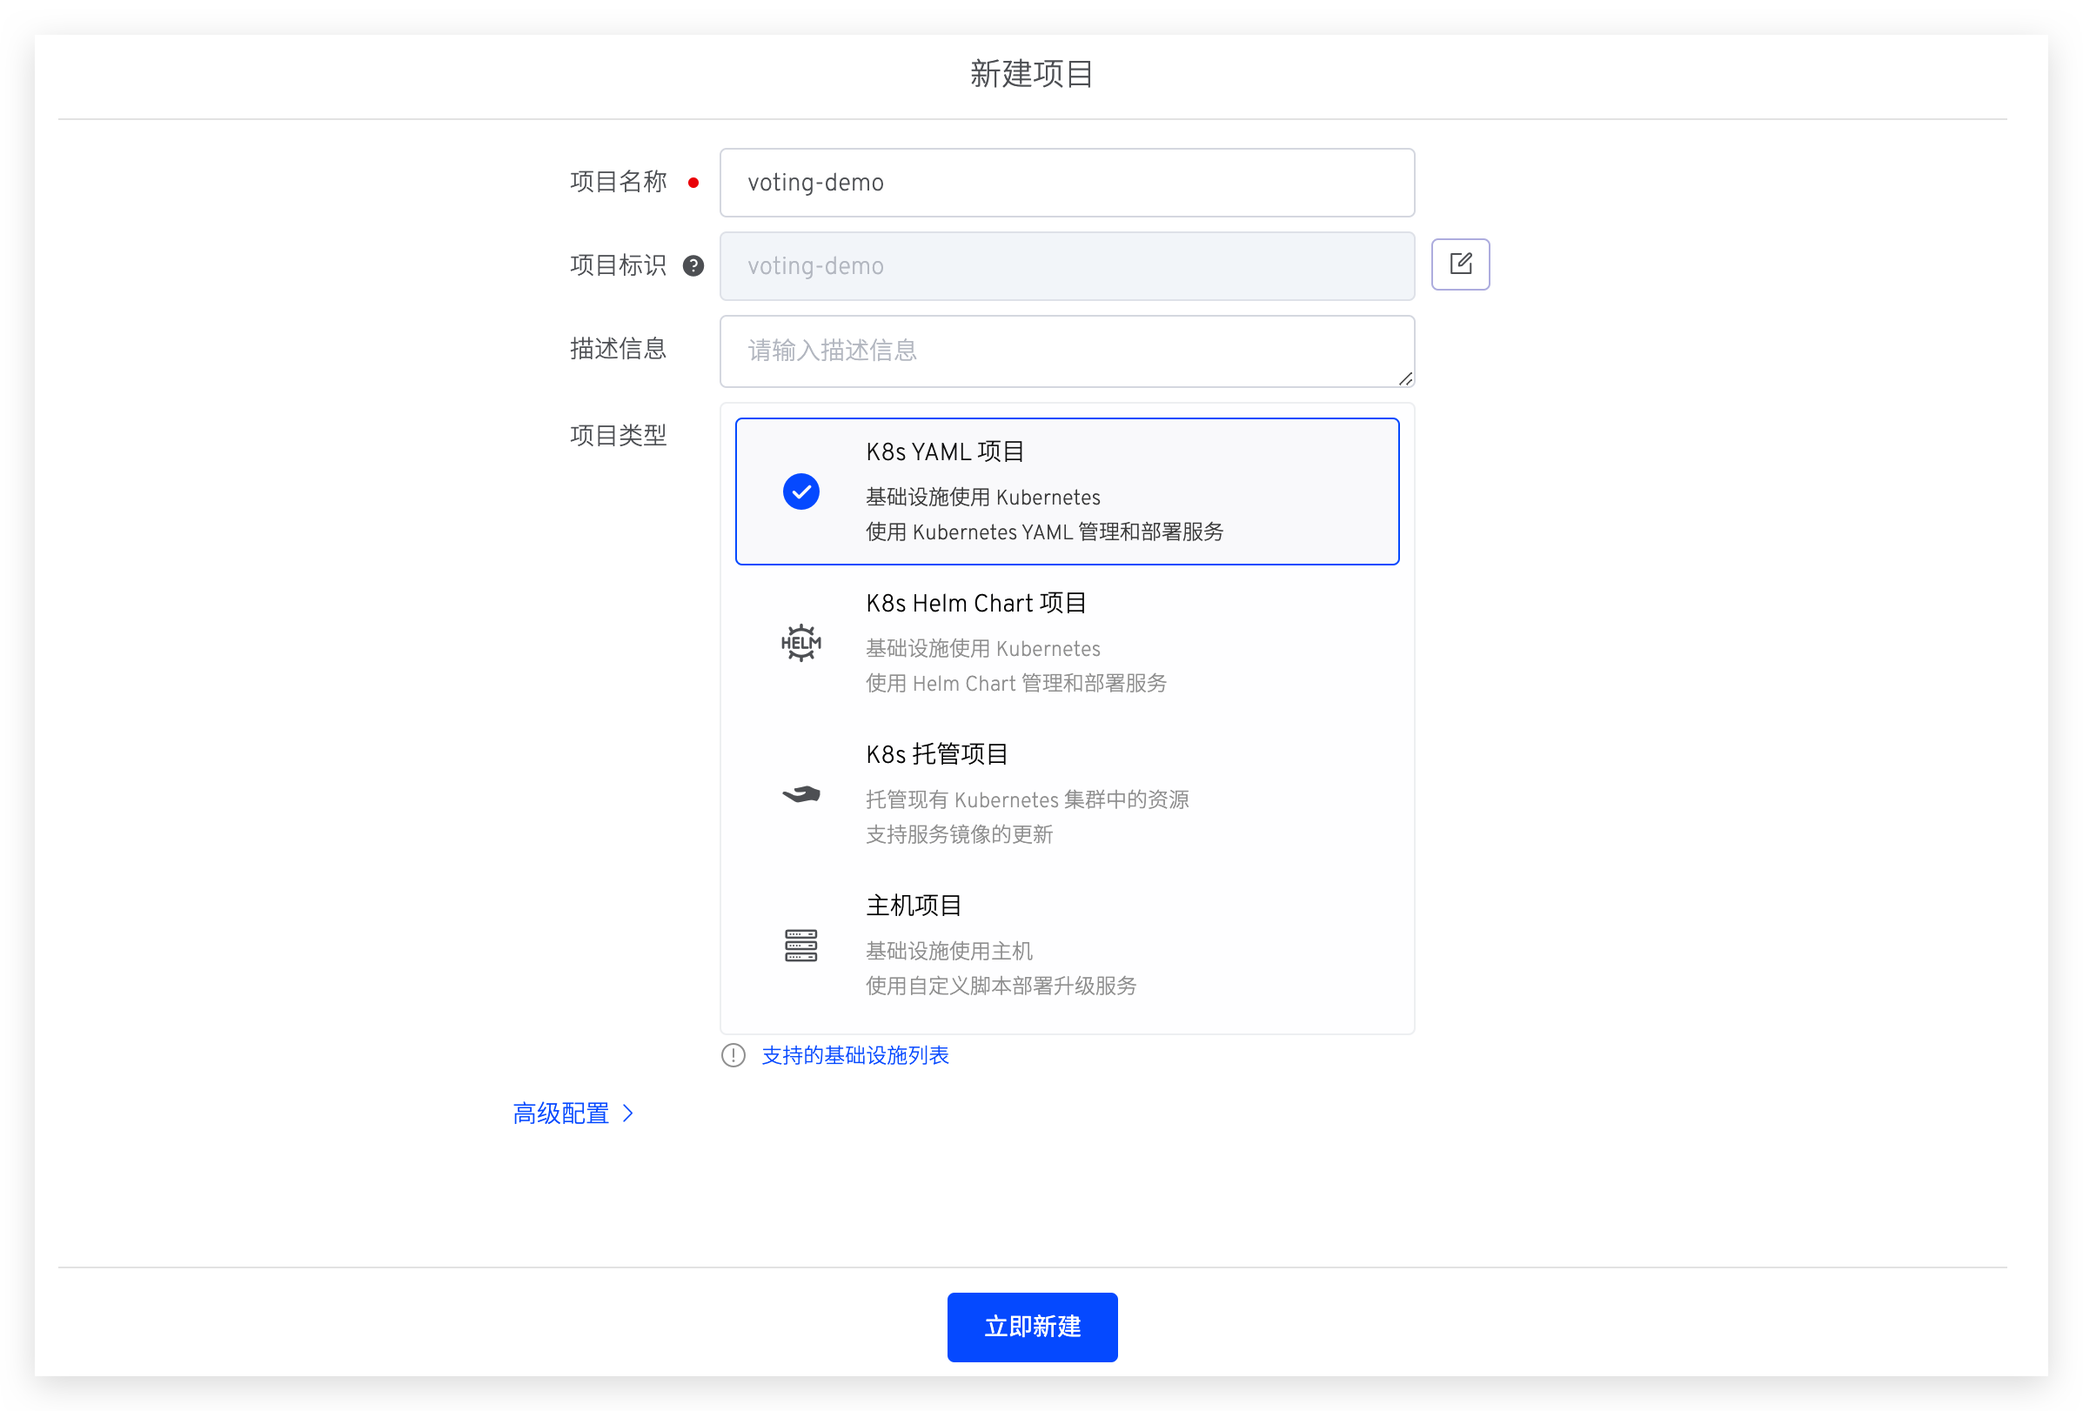
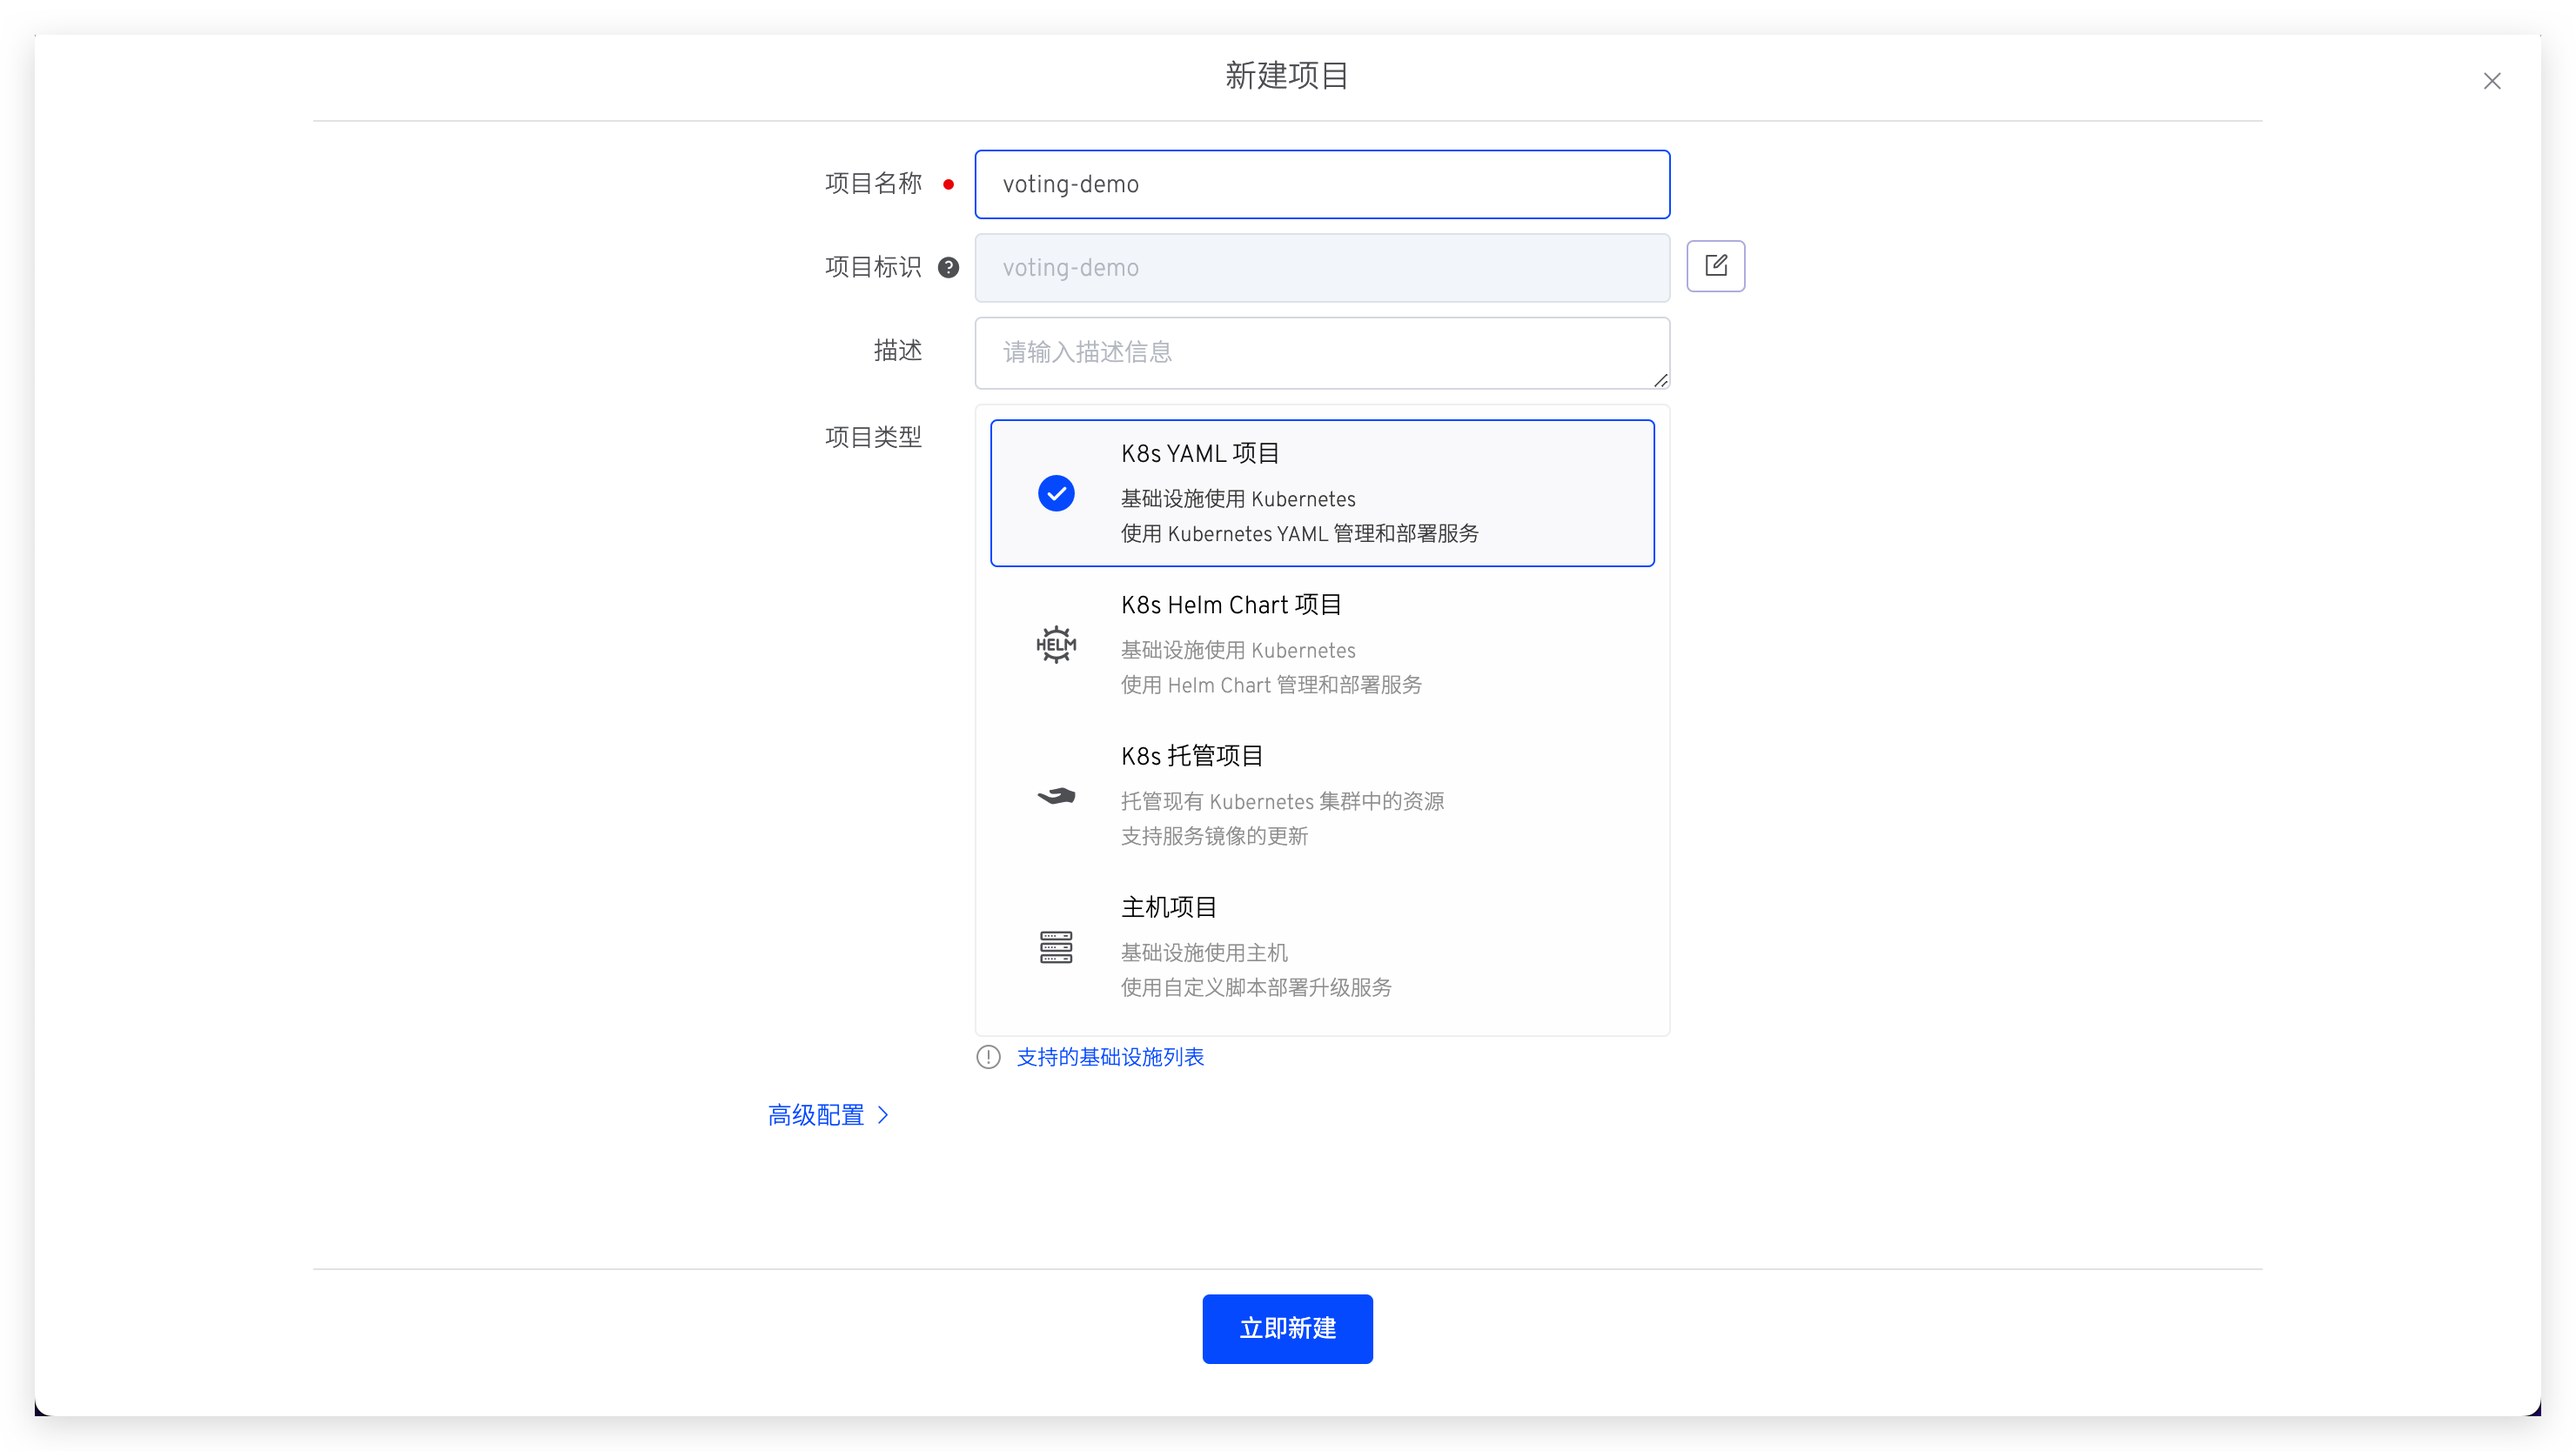
minor update of K8s YAML project onboarding

diff --git a/ZadigX v1.5.0/05.功能介绍/00.项目/01.Kubernetes YAML.md b/ZadigX v1.5.0/05.功能介绍/00.项目/01.Kubernetes YAML.md
@@ -10,49 +10,37 @@ permalink: /ZadigX v1.5.0/project/k8s-yaml/
 
 进入 ZadigX 系统，点击「项目」-「新建项目」，填写项目名称，选择`K8s YAML 项目`的项目类型新建项目。
 
-![创建项目](../_images/k8s_voting_onboarding_1.png)
+<img src="../_images/k8s_voting_onboarding_0.png" width="400">
+<img src="../_images/k8s_voting_onboarding_1.png" width="400">
+
+点击`下一步`，进入服务配置环节。
+![创建项目](../_images/helm_chart_sample_onboarding_2_0.png)
 
 ### 服务配置
-点击`下一步`，创建服务并为服务配置构建。
-- 选择从代码仓库导入服务配置，本例中使用 [koderover/zadig](https://github.com/koderover/zadig) 仓库的 [voting](https://github.com/koderover/zadig/tree/main/examples/voting-app) 案例。
-> 更细节的信息可参考 [K8s YAML 服务](/ZadigX%20v1.5.0/project/service/k8s/)。
+创建服务并为服务配置构建。创建服务可参考文档：[新建 K8s YAML 服务](/ZadigX%20v1.5.0/project/service/k8s/#新建服务)。
 
 ![服务配置](../_images/k8s_voting_onboarding_2.png)
 
-- 配置信息导入后，系统会自动解析 K8s 资源及相关服务组件。
+服务创建完毕后，系统会自动解析 K8s 资源及相关服务组件。
+
+> 服务组件的概念介绍可参考文档：[服务组件](/ZadigX%20v1.5.0/quick-start/concepts/#服务组件)。
 
 ![服务配置](../_images/k8s_voting_onboarding_2_1.png)
 
-- 点击`添加构建`，为服务组件添加构建配置，填写构建所需基本信息和通用构建脚本后保存构建。
-> 更细节的信息可参考[构建配置](/ZadigX%20v1.5.0/project/build/)。
+点击`添加构建`，为服务组件添加构建配置，可参考文档：[构建配置](/ZadigX%20v1.5.0/project/build/)。
 
-![服务构建配置](../_images/k8s_voting_onboarding_build_config_0.png)
+<img src="../_images/k8s_voting_onboarding_build_config_0.png" width="400">
+<img src="../_images/k8s_voting_onboarding_build_config.png" width="400">
 
-![服务构建配置](../_images/k8s_voting_onboarding_build_config.png)
+### 配置环境
 
-本例中的通用构建脚本如下：
-``` bash
-#!/bin/bash
-set -e
+服务配置完毕后点击`下一步`, 进入创建环境页面，用户可根据需要配置业务环境。
 
-cd $WORKSPACE/zadig/examples/voting-app/vote
-docker build -t $IMAGE -f Dockerfile .
-docker push $IMAGE
-```
+> 相关参数说明可参考文档：[创建环境](/ZadigX%20v1.5.0/project/env/k8s/#新建环境)。
 
-### 加入环境
-
-#### 基本操作
-
-服务配置完毕后点击`下一步`, 进入环境配置页面，用户可根据需要配置业务环境。
 ![加入环境](../_images/k8s_voting_onboarding_3.png)
 
-#### 资源检测 
-如果选择已有的 Namespace，服务列表会显示资源检测
-- 如果资源在 NS 都存在，则默认选择 仅导入服务。
-- 如果有一个资源在 NS 不存在，则选择 执行部署，不可选择 仅导入服务。
-
-点击 `创建` ，待环境创建完毕，点击`下一步`，即可进入到工作流交付环节。
+点击 `创建环境` ，待环境创建完毕，点击`下一步`，即可进入到工作流交付环节。
 
 ::: tip
 服务数量以及启动服务所需的资源会影响环境的创建时间，请耐心等待。
